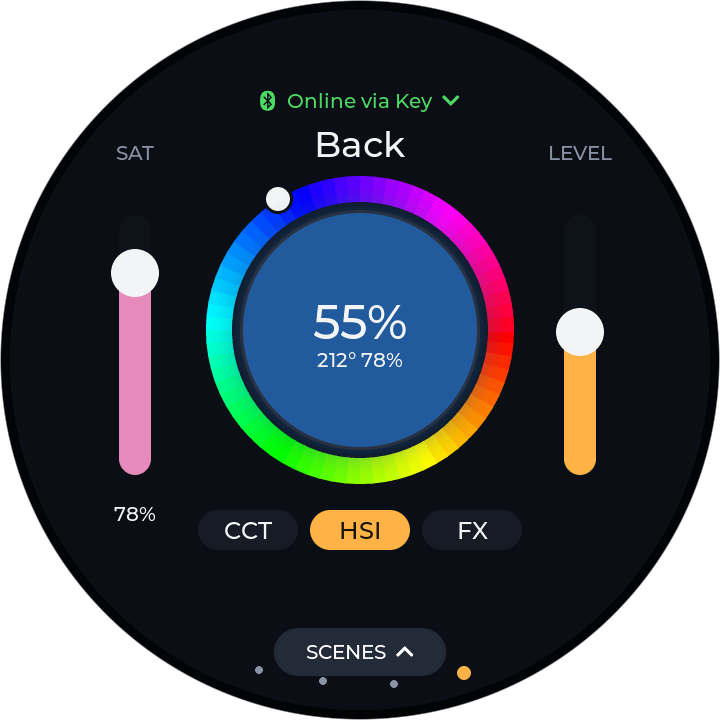
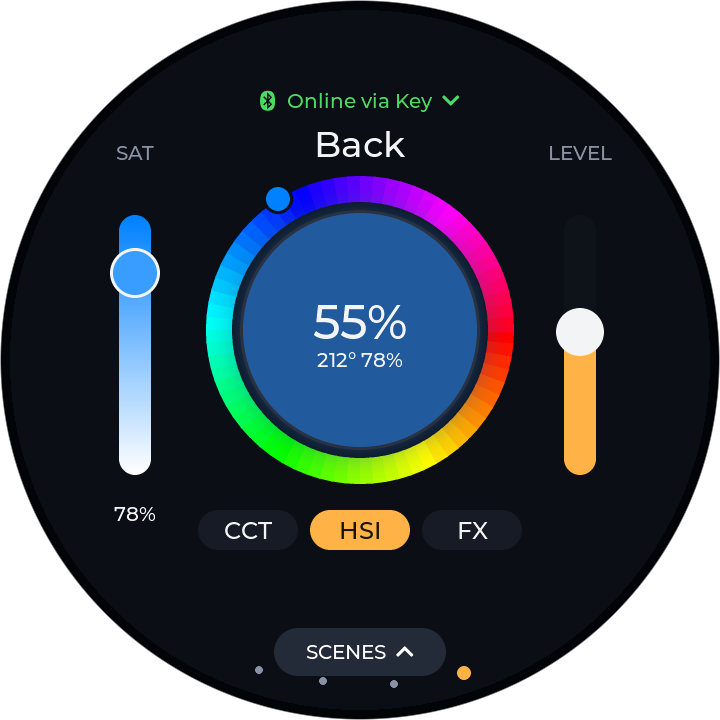
Hue wheel drags, colour-true saturation fader, cleaner scenes drawer
- Dragging the HSI hue ring often swiped to another page: the preview
  disc was hit-tested as its bounding square, whose corners cover the
  ring's diagonals, and the disc chains drags to the carousel.  The disc
  now hit-tests as a circle, and the wheel no longer chains scrolls.
  Regression test in tools/sim/gesture_test.c.
- The saturation fader is a white-to-hue gradient and its knob shows the
  colour actually set (hue at the current saturation); the ring marker
  shows the pure hue.  Both follow wheel and fader drags live.
- Scenes drawer covers the whole glass (no desk controls peeking above
  it), a captioned CROSSFADE segmented row, wider rows with room between
  name and colour dots, bottom padding so the last row clears the rim,
  and the empty state sits in the list above "Save current look".

Changed region(s): [[0.1528, 0.275, 0.2444, 0.6722], [0.3667, 0.2444, 0.3972, 0.3056]]

diff --git a/main/ui/ui_scenes.c b/main/ui/ui_scenes.c
@@ -8,11 +8,15 @@
 #include "app_core.h"
 #include "ui.h"
 
-#define DRAWER_H       600
-#define DRAWER_OPEN_Y  174   /* keeps the channel title readable above the sheet */
+/* The drawer covers the whole glass when open: a clean panel, no desk
+ * controls peeking out above it, and room for the list inside the circle. */
+#define DRAWER_H       UI_H
+#define DRAWER_OPEN_Y  0
 #define DRAWER_CLOSED_Y UI_H
-#define ROW_W          400
-#define ROW_H          78
+#define ROW_W          460
+#define ROW_H          84
+#define FADE_W         100
+#define FADE_GAP       10
 
 static lv_obj_t *s_drawer;
 static lv_obj_t *s_list;
@@ -131,16 +135,18 @@ static lv_obj_t *make_row(int idx)
 
     lv_obj_t *name = lv_label_create(row);
     lv_obj_set_style_text_font(name, ui_font_medium, 0);
-    lv_obj_align(name, LV_ALIGN_LEFT_MID, 26, -13);
+    lv_obj_set_width(name, ROW_W - 150);
+    lv_label_set_long_mode(name, LV_LABEL_LONG_DOT);
+    lv_obj_align(name, LV_ALIGN_LEFT_MID, 32, -15);
     s_row_name[idx] = name;
 
     for (int i = 0; i < LIGHTS_MAX; i++) {
         lv_obj_t *d = lv_obj_create(row);
-        lv_obj_set_size(d, 18, 18);
+        lv_obj_set_size(d, 16, 16);
         lv_obj_set_style_radius(d, LV_RADIUS_CIRCLE, 0);
         lv_obj_set_style_border_width(d, 0, 0);
         lv_obj_remove_flag(d, LV_OBJ_FLAG_SCROLLABLE | LV_OBJ_FLAG_CLICKABLE);
-        lv_obj_align(d, LV_ALIGN_LEFT_MID, 26 + i * 24, 16);
+        lv_obj_align(d, LV_ALIGN_LEFT_MID, 34 + i * 24, 20);
         lv_obj_add_flag(d, LV_OBJ_FLAG_HIDDEN);
         s_row_discs[idx][i] = d;
     }
@@ -150,7 +156,7 @@ static lv_obj_t *make_row(int idx)
     lv_obj_set_style_text_color(del, ui_col_muted, 0);
     lv_obj_set_style_pad_all(del, 14, 0);
     lv_obj_add_flag(del, LV_OBJ_FLAG_CLICKABLE);
-    lv_obj_align(del, LV_ALIGN_RIGHT_MID, -14, 0);
+    lv_obj_align(del, LV_ALIGN_RIGHT_MID, -16, 0);
     lv_obj_add_event_cb(del, on_row_delete, LV_EVENT_CLICKED, (void *)(uintptr_t)idx);
     s_row_del[idx] = del;
 
@@ -159,7 +165,7 @@ static lv_obj_t *make_row(int idx)
     lv_obj_set_style_text_color(ren, ui_col_muted, 0);
     lv_obj_set_style_pad_all(ren, 14, 0);
     lv_obj_add_flag(ren, LV_OBJ_FLAG_CLICKABLE);
-    lv_obj_align(ren, LV_ALIGN_RIGHT_MID, -64, 0);
+    lv_obj_align(ren, LV_ALIGN_RIGHT_MID, -72, 0);
     lv_obj_add_event_cb(ren, on_row_rename, LV_EVENT_CLICKED, (void *)(uintptr_t)idx);
     return row;
 }
@@ -172,9 +178,7 @@ void ui_scenes_create(lv_obj_t *screen)
     lv_obj_set_style_bg_color(s_drawer, ui_col_bg, 0);
     lv_obj_set_style_bg_opa(s_drawer, LV_OPA_COVER, 0);
     lv_obj_set_style_radius(s_drawer, 56, 0);
-    lv_obj_set_style_border_width(s_drawer, 2, 0);
-    lv_obj_set_style_border_color(s_drawer, ui_col_panel_hi, 0);
-    lv_obj_set_style_border_side(s_drawer, LV_BORDER_SIDE_TOP, 0);
+    lv_obj_set_style_border_width(s_drawer, 0, 0);
     lv_obj_set_style_shadow_width(s_drawer, 40, 0);
     lv_obj_set_style_shadow_color(s_drawer, lv_color_black(), 0);
     lv_obj_set_style_shadow_opa(s_drawer, LV_OPA_70, 0);
@@ -182,7 +186,7 @@ void ui_scenes_create(lv_obj_t *screen)
     lv_obj_remove_flag(s_drawer, LV_OBJ_FLAG_SCROLLABLE | LV_OBJ_FLAG_GESTURE_BUBBLE);
 
     lv_obj_t *handle = ui_make_handle(s_drawer);
-    lv_obj_align(handle, LV_ALIGN_TOP_MID, 0, 14);
+    lv_obj_align(handle, LV_ALIGN_TOP_MID, 0, 26);
     lv_obj_add_flag(handle, LV_OBJ_FLAG_CLICKABLE);
     lv_obj_set_ext_click_area(handle, 30);
     lv_obj_add_event_cb(handle, on_handle, LV_EVENT_CLICKED, NULL);
@@ -190,27 +194,30 @@ void ui_scenes_create(lv_obj_t *screen)
     s_title = lv_label_create(s_drawer);
     lv_label_set_text(s_title, "Scenes");
     lv_obj_set_style_text_font(s_title, ui_font_large, 0);
-    lv_obj_align(s_title, LV_ALIGN_TOP_MID, 0, 34);
+    lv_obj_align(s_title, LV_ALIGN_TOP_MID, 0, 56);
 
-    /* fade time selector: Snap / 1 s / 2 s / 5 s */
+    /* crossfade selector: a captioned segmented row, Snap / 1 s / 2 s / 5 s */
     lv_obj_t *fl = lv_label_create(s_drawer);
-    lv_label_set_text(fl, "Fade");
+    lv_label_set_text(fl, "CROSSFADE");
     lv_obj_set_style_text_font(fl, ui_font_small, 0);
     lv_obj_set_style_text_color(fl, ui_col_muted, 0);
-    lv_obj_align(fl, LV_ALIGN_TOP_MID, -180, 118);
+    lv_obj_set_style_text_letter_space(fl, 2, 0);
+    lv_obj_align(fl, LV_ALIGN_TOP_MID, 0, 116);
+    const int fade_x0 = UI_CX - (4 * FADE_W + 3 * FADE_GAP) / 2;
     for (int i = 0; i < 4; i++) {
-        s_fade_btn[i] = ui_make_pill(s_drawer, k_fade_txt[i], 78, 36, ui_col_panel, ui_font_small);
-        lv_obj_align(s_fade_btn[i], LV_ALIGN_TOP_MID, -84 + i * 86, 108);
+        s_fade_btn[i] = ui_make_pill(s_drawer, k_fade_txt[i], FADE_W, 44, ui_col_panel, ui_font_small);
+        lv_obj_set_pos(s_fade_btn[i], fade_x0 + i * (FADE_W + FADE_GAP), 146);
         lv_obj_add_event_cb(s_fade_btn[i], on_fade, LV_EVENT_CLICKED, (void *)(uintptr_t)i);
     }
 
     s_list = lv_obj_create(s_drawer);
-    lv_obj_set_size(s_list, ROW_W + 24, 330);
-    lv_obj_align(s_list, LV_ALIGN_TOP_MID, 0, 154);
+    lv_obj_set_size(s_list, ROW_W + 24, 404);
+    lv_obj_align(s_list, LV_ALIGN_TOP_MID, 0, 212);
+    lv_obj_set_style_pad_bottom(s_list, 40, 0);   /* last row scrolls clear of the rim */
     lv_obj_set_style_bg_opa(s_list, LV_OPA_TRANSP, 0);
     lv_obj_set_style_border_width(s_list, 0, 0);
     lv_obj_set_style_pad_all(s_list, 6, 0);
-    lv_obj_set_style_pad_row(s_list, 12, 0);
+    lv_obj_set_style_pad_row(s_list, 14, 0);
     lv_obj_set_flex_flow(s_list, LV_FLEX_FLOW_COLUMN);
     lv_obj_set_flex_align(s_list, LV_FLEX_ALIGN_START, LV_FLEX_ALIGN_CENTER, LV_FLEX_ALIGN_CENTER);
     lv_obj_set_scrollbar_mode(s_list, LV_SCROLLBAR_MODE_OFF);
@@ -221,15 +228,15 @@ void ui_scenes_create(lv_obj_t *screen)
         s_rows[i] = make_row(i);
         lv_obj_add_flag(s_rows[i], LV_OBJ_FLAG_HIDDEN);
     }
-    s_add = ui_make_pill(s_list, LV_SYMBOL_PLUS "  Save current look", ROW_W, 60, ui_col_panel_hi, ui_font_normal);
+    s_add = ui_make_pill(s_list, LV_SYMBOL_PLUS "  Save current look", ROW_W, 64, ui_col_panel_hi, ui_font_normal);
     lv_obj_add_event_cb(s_add, on_add, LV_EVENT_CLICKED, NULL);
 
-    s_empty = lv_label_create(s_drawer);
+    s_empty = lv_label_create(s_list);          /* sits above "+" inside the list */
     lv_label_set_text(s_empty, "No scenes yet.\nSet the lights, then save the look.");
     lv_obj_set_style_text_align(s_empty, LV_TEXT_ALIGN_CENTER, 0);
     lv_obj_set_style_text_color(s_empty, ui_col_muted, 0);
     lv_obj_set_style_text_font(s_empty, ui_font_small, 0);
-    lv_obj_align(s_empty, LV_ALIGN_TOP_MID, 0, 198);
+    lv_obj_set_style_pad_ver(s_empty, 24, 0);
     lv_obj_add_flag(s_empty, LV_OBJ_FLAG_HIDDEN);
 
     ui_scenes_refresh();

diff --git a/main/ui/ui_desk.c b/main/ui/ui_desk.c
@@ -11,6 +11,7 @@
 #include "app_core.h"
 #include "md_attr.h"
 #include "ui.h"
+#include "src/core/lv_obj_event_private.h"   /* lv_hit_test_info_t */
 
 #define PAGES_MAX      (LIGHTS_MAX + 1)
 #define DISC_SIZE      240
@@ -110,6 +111,18 @@ static void slider_set(lv_obj_t *slider, int value)
     if (!lv_obj_has_state(slider, LV_STATE_PRESSED)) lv_slider_set_value(slider, value, LV_ANIM_OFF);
 }
 
+/* The saturation fader is a white-to-hue gradient; its knob is the colour
+ * the light is set to (hue at the current saturation). */
+static void sat_paint(page_t *pg)
+{
+    int sat = (int)lv_slider_get_value(pg->arc_sat);
+    lv_color_t full = lv_color_hsv_to_rgb(pg->hue_value, 100, 100);
+    lv_obj_set_style_bg_color(pg->arc_sat, full, LV_PART_MAIN);
+    lv_obj_set_style_bg_grad_color(pg->arc_sat, lv_color_white(), LV_PART_MAIN);
+    lv_obj_set_style_bg_color(pg->arc_sat, lv_color_hsv_to_rgb(pg->hue_value, (uint8_t)sat, 100), LV_PART_KNOB);
+    lv_obj_set_style_bg_color(pg->wheel_knob, full, 0);
+}
+
 static void wheel_place_marker(page_t *pg)
 {
     double a = pg->hue_value * M_PI / 180.0;
@@ -162,6 +175,16 @@ static void on_ring(lv_event_t *e)
     if (s_refreshing || throttled(e)) return;
     if (pg->addr == 0) app_cmd_master_level((uint16_t)v * 10);
     else               app_cmd_set_intensity(pg->addr, (uint16_t)v * 10);
+}
+
+static void disc_hit_test(lv_event_t *e)
+{
+    lv_hit_test_info_t *info = (lv_hit_test_info_t *)lv_event_get_param(e);
+    lv_area_t a;
+    lv_obj_get_coords(lv_event_get_target(e), &a);
+    int r = lv_area_get_width(&a) / 2;
+    int dx = info->point->x - (a.x1 + r), dy = info->point->y - (a.y1 + r);
+    info->res = dx * dx + dy * dy <= r * r;
 }
 
 static void on_disc(lv_event_t *e)
@@ -228,6 +251,7 @@ static void on_wheel(lv_event_t *e)
     if (degrees < 0) degrees += 360.0;
     pg->hue_value = (uint16_t)lround(degrees) % 360;
     wheel_place_marker(pg);
+    sat_paint(pg);
     lv_label_set_text_fmt(pg->sub, "%u\xC2\xB0  %d%%", pg->hue_value,
                           (int)lv_slider_get_value(pg->arc_sat));
     if (s_refreshing || throttled(e)) return;
@@ -238,6 +262,7 @@ static void on_sat(lv_event_t *e)
 {
     page_t *pg = (page_t *)lv_event_get_user_data(e);
     lv_label_set_text_fmt(pg->sat_value, "%d%%", (int)lv_slider_get_value(pg->arc_sat));
+    sat_paint(pg);
     if (s_refreshing || throttled(e)) return;
     send_hsi(pg);
 }
@@ -451,6 +476,10 @@ static lv_obj_t *make_disc(lv_obj_t *page, page_t *pg)
     lv_obj_set_style_pad_all(disc, 0, 0);
     lv_obj_remove_flag(disc, LV_OBJ_FLAG_SCROLLABLE);
     lv_obj_add_flag(disc, LV_OBJ_FLAG_CLICKABLE);
+    /* hit-test the circle, not its bounding square: the square's corners
+     * cover the diagonals of the HSI hue ring around it */
+    lv_obj_add_flag(disc, LV_OBJ_FLAG_ADV_HITTEST);
+    lv_obj_add_event_cb(disc, disc_hit_test, LV_EVENT_HIT_TEST, NULL);
     lv_obj_add_event_cb(disc, on_disc, LV_EVENT_PRESSED, pg);
     lv_obj_add_event_cb(disc, on_disc, LV_EVENT_PRESSING, pg);
     lv_obj_add_event_cb(disc, on_disc, LV_EVENT_CLICKED, pg);
@@ -492,6 +521,8 @@ static void make_hsi_tools(page_t *pg)
     lv_obj_set_style_border_width(pg->wheel, 0, 0);
     lv_obj_set_style_pad_all(pg->wheel, 0, 0);
     lv_obj_remove_flag(pg->wheel, LV_OBJ_FLAG_SCROLLABLE);
+    /* a drag on the wheel sets the hue; it must not reach the page carousel */
+    lv_obj_remove_flag(pg->wheel, LV_OBJ_FLAG_SCROLL_CHAIN);
     lv_obj_add_flag(pg->wheel, LV_OBJ_FLAG_CLICKABLE);
     lv_obj_add_event_cb(pg->wheel, wheel_draw, LV_EVENT_DRAW_MAIN, NULL);
     lv_obj_add_event_cb(pg->wheel, on_wheel, LV_EVENT_PRESSED, pg);
@@ -521,10 +552,12 @@ static void make_hsi_tools(page_t *pg)
     lv_slider_set_range(pg->arc_sat, 0, 100);
     lv_obj_set_style_radius(pg->arc_sat, LV_RADIUS_CIRCLE, LV_PART_MAIN);
     lv_obj_set_style_radius(pg->arc_sat, LV_RADIUS_CIRCLE, LV_PART_INDICATOR);
-    lv_obj_set_style_bg_color(pg->arc_sat, ui_col_track, LV_PART_MAIN);
-    lv_obj_set_style_bg_color(pg->arc_sat, lv_color_hex(0xe58abb), LV_PART_INDICATOR);
-    lv_obj_set_style_bg_color(pg->arc_sat, ui_col_text, LV_PART_KNOB);
-    lv_obj_set_style_pad_all(pg->arc_sat, 8, LV_PART_KNOB);
+    lv_obj_set_style_bg_grad_dir(pg->arc_sat, LV_GRAD_DIR_VER, LV_PART_MAIN);
+    lv_obj_set_style_bg_opa(pg->arc_sat, LV_OPA_COVER, LV_PART_MAIN);   /* theme tracks are translucent */
+    lv_obj_set_style_bg_opa(pg->arc_sat, LV_OPA_TRANSP, LV_PART_INDICATOR);
+    lv_obj_set_style_border_width(pg->arc_sat, 3, LV_PART_KNOB);
+    lv_obj_set_style_border_color(pg->arc_sat, ui_col_text, LV_PART_KNOB);
+    lv_obj_set_style_pad_all(pg->arc_sat, 9, LV_PART_KNOB);
     lv_obj_set_ext_click_area(pg->arc_sat, 18);
     lv_obj_add_event_cb(pg->arc_sat, on_sat, LV_EVENT_VALUE_CHANGED, pg);
     lv_obj_add_event_cb(pg->arc_sat, on_sat, LV_EVENT_RELEASED, pg);
@@ -780,6 +813,7 @@ static void refresh_channel(page_t *pg, bool animate)
         slider_set(pg->arc_sat, st->sat);
         lv_label_set_text_fmt(pg->sat_value, "%u%%", st->sat);
     }
+    sat_paint(pg);
     if (pg->has_hsi != l.has_hsi) { pg->has_hsi = l.has_hsi; layout_chips(pg); }
     if (l.has_gm) lv_obj_remove_flag(pg->card_gm, LV_OBJ_FLAG_HIDDEN);
     else          lv_obj_add_flag(pg->card_gm, LV_OBJ_FLAG_HIDDEN);

diff --git a/tools/sim/gesture_test.c b/tools/sim/gesture_test.c
@@ -8,6 +8,8 @@
 
 #include "lvgl.h"
 #include "ui.h"
+#include "app_core.h"
+#include <string.h>
 
 static uint32_t s_ms;
 static lv_indev_t *s_pointer;
@@ -43,6 +45,27 @@ static void feed(int contacts, int y)
     }
     lv_indev_read(s_pointer);
     lv_timer_handler();
+}
+
+/* one finger, arbitrary path */
+static void drag_xy(int x0, int y0, int x1, int y1)
+{
+    for (int i = 0; i <= 10; i++) {
+        s_ms += 25;
+        s_contacts = 1;
+        s_points[0].id = 1;
+        s_points[0].point.x = x0 + (x1 - x0) * i / 10;
+        s_points[0].point.y = y0 + (y1 - y0) * i / 10;
+        s_points[0].state = LV_INDEV_STATE_PRESSED;
+        s_points[0].timestamp = s_ms;
+        s_points[1].state = LV_INDEV_STATE_RELEASED;
+        lv_indev_read(s_pointer);
+        lv_timer_handler();
+    }
+    s_contacts = 0;
+    s_points[0].state = LV_INDEV_STATE_RELEASED;
+    lv_indev_read(s_pointer);
+    for (int i = 0; i < 40; i++) { s_ms += 10; lv_timer_handler(); }
 }
 
 static void swipe(int contacts, int from, int to)
@@ -90,5 +113,29 @@ int main(void)
     failures += check("two finger up opens scenes", false, true);
     swipe(2, 240, 500);
     failures += check("two finger down closes scenes", false, false);
+
+    /* Dragging along the HSI colour wheel sets the hue and must not swipe
+     * the desk to another page. */
+    uint8_t uuid[16] = { 0 }, key[16] = { 0 };
+    memcpy(uuid, "40095-1A2B3C", 12);                 /* amaran T4c: has HSI */
+    light_t *l = lights_add(uuid, 2, 1, key, "Back");
+    l->configured = true;
+    l->state.on = true;
+    l->state.reported = true;
+    l->state.mode = LIGHT_MODE_HSI;
+    l->state.hue = 0;
+    l->state.sat = 80;
+    l->state.level = l->state.intensity = 500;
+    ui_notify_lights_changed();
+    ui_desk_goto(1, false);
+    for (int i = 0; i < 20; i++) { s_ms += 10; lv_timer_handler(); }
+    /* wheel centre (360, 330), ring radius ~154: sweep across the top of it */
+    drag_xy(250, 222, 470, 222);
+    bool same_page = ui_desk_current_addr() == 2;
+    bool hue_moved = l->state.hue != 0;
+    printf("%s wheel drag stays on the page (addr 0x%04x)\n", same_page ? "PASS" : "FAIL", ui_desk_current_addr());
+    printf("%s wheel drag sets the hue (%u)\n", hue_moved ? "PASS" : "FAIL", l->state.hue);
+    if (!same_page) failures++;
+    if (!hue_moved) failures++;
     return failures ? 1 : 0;
 }

diff --git a/tools/sim/render.c b/tools/sim/render.c
@@ -110,6 +110,11 @@ int main(void)
     ui_init();
     run(400);
     snap("01_empty");
+    ui_scenes_set_open(true, false);
+    run(300);
+    snap("16_scenes_empty");
+    ui_scenes_set_open(false, false);
+    run(100);
 
     /* 2. studio with three lights: master page */
     studio();
